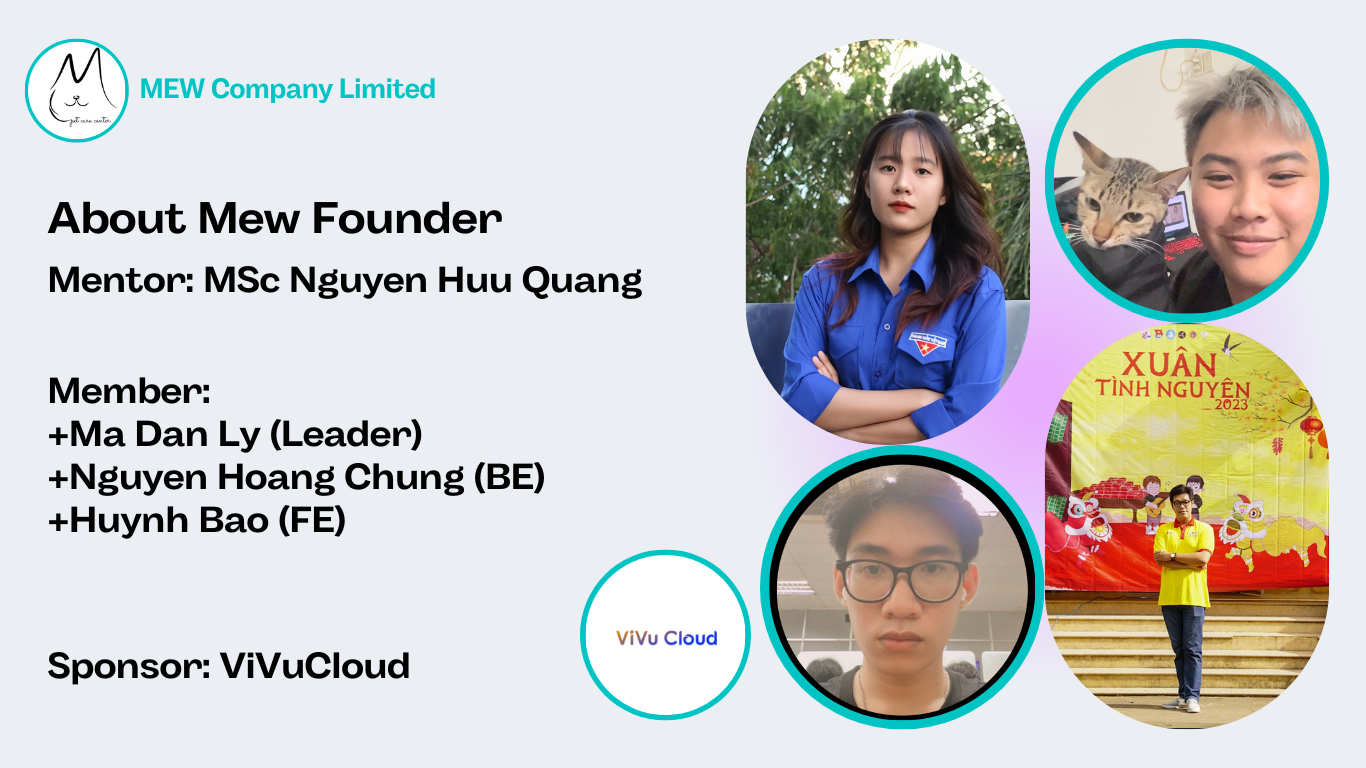
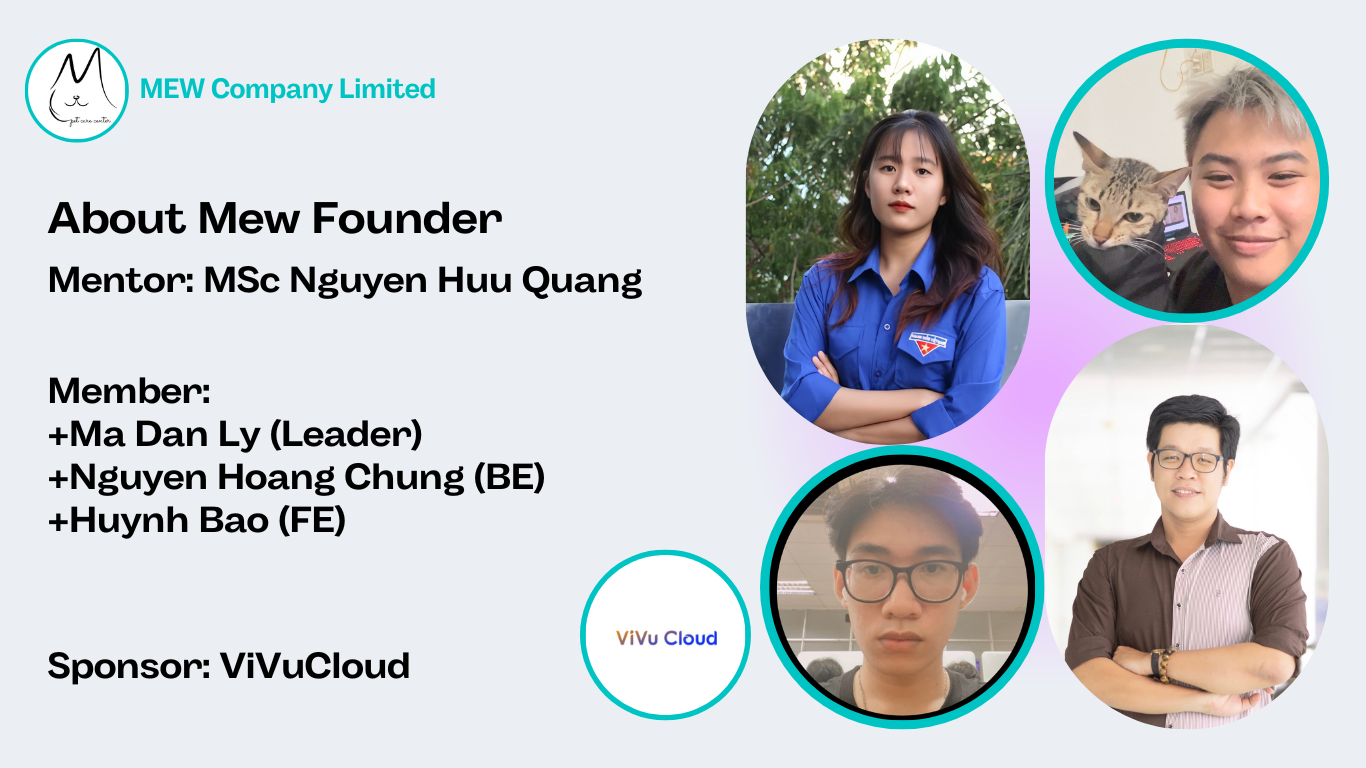
img

Changed region(s): [[0.7379, 0.4062, 0.9839, 0.9688]]

diff --git a/src/pages/HistoryPage/HistoryPage.tsx b/src/pages/HistoryPage/HistoryPage.tsx
@@ -2,11 +2,17 @@ import React from 'react';
 
 import * as s from './Tables.styles';
 import img from './AboutUss.png';
+import img2 from './vivu2.png';
 const Dashboard: React.FC = () => {
   return (
-    <s.Card2>
-      <img style={{ maxWidth: '100%', maxHeight: '100%' }} src={img} alt="about us" />
-    </s.Card2>
+    <>
+      <s.Card2>
+        <img style={{ maxWidth: '100%', maxHeight: '100%' }} src={img} alt="about us" />
+      </s.Card2>
+      <s.Card2>
+        <img style={{ maxWidth: '100%', maxHeight: '100%' }} src={img2} alt="about us2" />
+      </s.Card2>
+    </>
   );
 };
 
